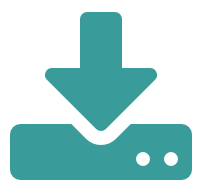
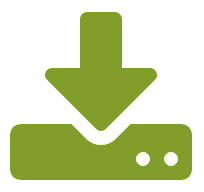
Layout verbeterd

diff --git a/plugins/core.mailer/layout/nl.html b/plugins/core.mailer/layout/nl.html
@@ -28,14 +28,14 @@
         Bring inline: Yes. */
         h1, h2, h3, h4, h5, h6 {color: black !important;}
 
-        h1 a, h2 a, h3 a, h4 a, h5 a, h6 a {color: #399C9B !important;}
+        h1 a, h2 a, h3 a, h4 a, h5 a, h6 a {color: #748D26 !important;}
 
         h1 a:active, h2 a:active,  h3 a:active, h4 a:active, h5 a:active, h6 a:active {
-            color: #399C9B !important; /* Preferably not the same color as the normal header link color.  There is limited support for psuedo classes in email clients, this was added just for good measure. */
+            color: #748D26 !important; /* Preferably not the same color as the normal header link color.  There is limited support for psuedo classes in email clients, this was added just for good measure. */
         }
 
         h1 a:visited, h2 a:visited,  h3 a:visited, h4 a:visited, h5 a:visited, h6 a:visited {
-            color: #399C9B !important; /* Preferably not the same color as the normal header link color. There is limited support for psuedo classes in email clients, this was added just for good measure. */
+            color: #748D26 !important; /* Preferably not the same color as the normal header link color. There is limited support for psuedo classes in email clients, this was added just for good measure. */
         }
 
         /* Outlook 07, 10 Padding issue fix
@@ -48,7 +48,7 @@
 
         /* Styling your links has become much simpler with the new Yahoo.  In fact, it falls in line with the main credo of styling in email and make sure to bring your styles inline.  Your link colors will be uniform across clients when brought inline.
         Bring inline: Yes. */
-        a {color: #399C9B;}
+        a {color: #748D26;}
 
 
         @media only screen and (max-device-width: 480px) {
@@ -137,7 +137,7 @@
         <td colspan="2"><br><br><br></td>
     </tr>
     <tr>
-        <td colspan="2" valign="top" style="background-color: #e35d52; color: #ffffff; padding: 30px;">
+        <td colspan="2" valign="top" style="background-color: #572600; color: #ffffff; padding: 30px;">
             Verzonden via <a href="https://www.scoutsengidsenvlaanderen.org/" style="color: white;">www.scoutsengidsenvlaanderen.org</a>
         </td>
     </tr>

diff --git a/plugins/access.ajxp_home/home.css b/plugins/access.ajxp_home/home.css
@@ -138,9 +138,8 @@
     padding: 20px 43px;
 }
 
-#workspaces_list li.selected{
-    background-color: rgba(227, 93, 82, 0.7) !important;
-    color: white;
+#workspaces_list li.selected {
+    background-color: rgba(198, 215, 50, 0.9) !important; /* #BDD732 */
 }
 
 #workspaces_list li:last-of-type {

diff --git a/plugins/gui.ajax/res/themes/orbit/css/ajaxplorer.css b/plugins/gui.ajax/res/themes/orbit/css/ajaxplorer.css
@@ -2058,11 +2058,8 @@ a.carousel-disabled{
     background-color: transparent;
 }
 
-a.carousel-control img{
-}
-
 #content_pane{
-    background-color: rgba(255, 255, 255, 0.93); /*#FFF*/
+    background-color: #FFF;
 }
 
 #content_pane div.panelHeader,

diff --git a/plugins/core.mailer/class.AjxpMailer.php b/plugins/core.mailer/class.AjxpMailer.php
@@ -97,10 +97,6 @@ class AjxpMailer extends AJXP_Plugin
         }
         $body = str_replace("AJXP_MAIL_SUBJECT", $subject, $body);
         $this->sendMailImpl($recipients, $subject, $body, $from, $images);
-        if (AJXP_SERVER_DEBUG) {
-            $line = "------------------------------------------------------------------------\n";
-            file_put_contents($this->mailCache, $line."Sending mail from ".print_r($from, true)." to ".print_r($recipients, true)."\nSubject: $subject\nBody:\n$rowBody\n", FILE_APPEND);
-        }
     }
 
     protected function sendMailImpl($recipients, $subject, $body, $from = null, $images = array())
